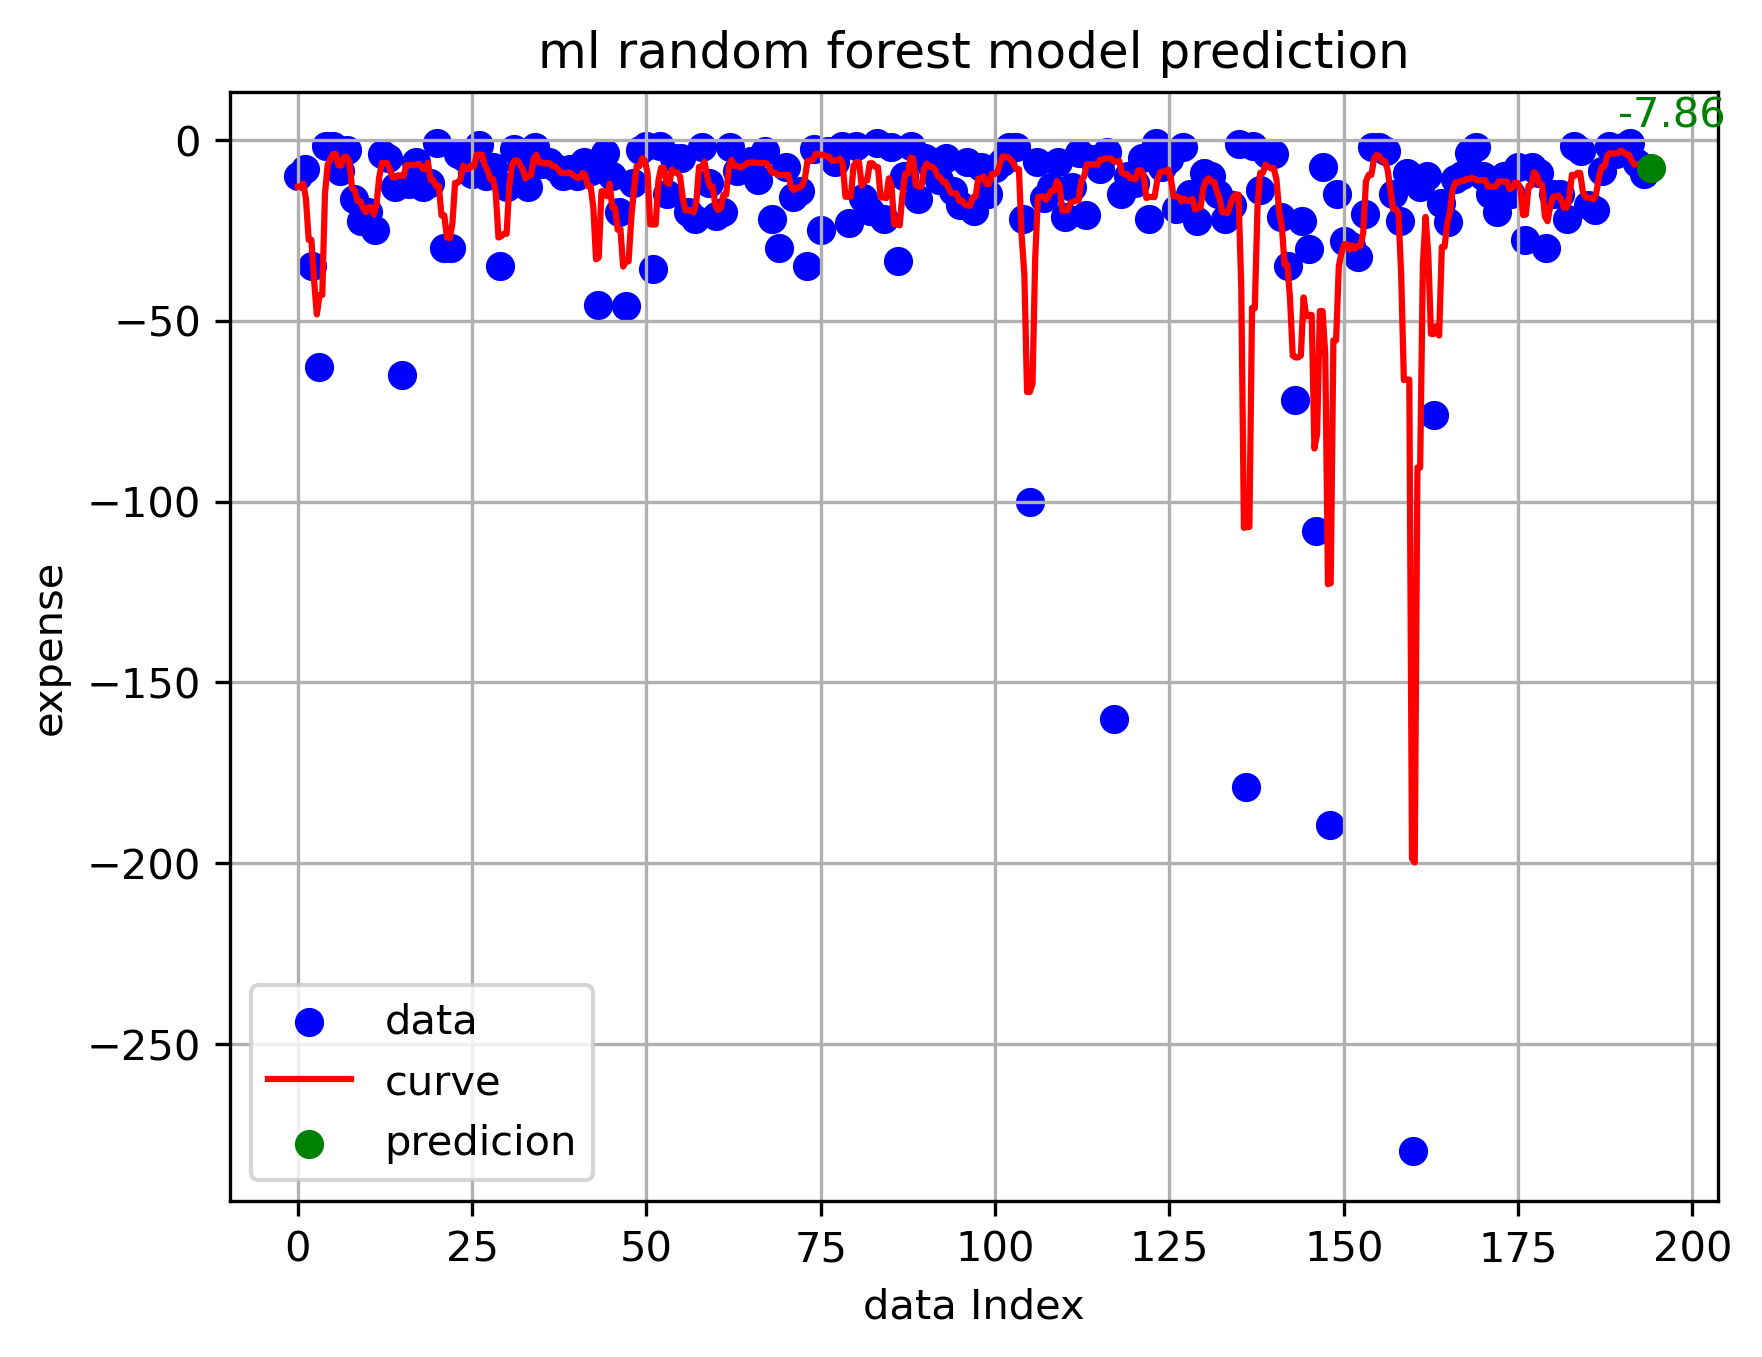
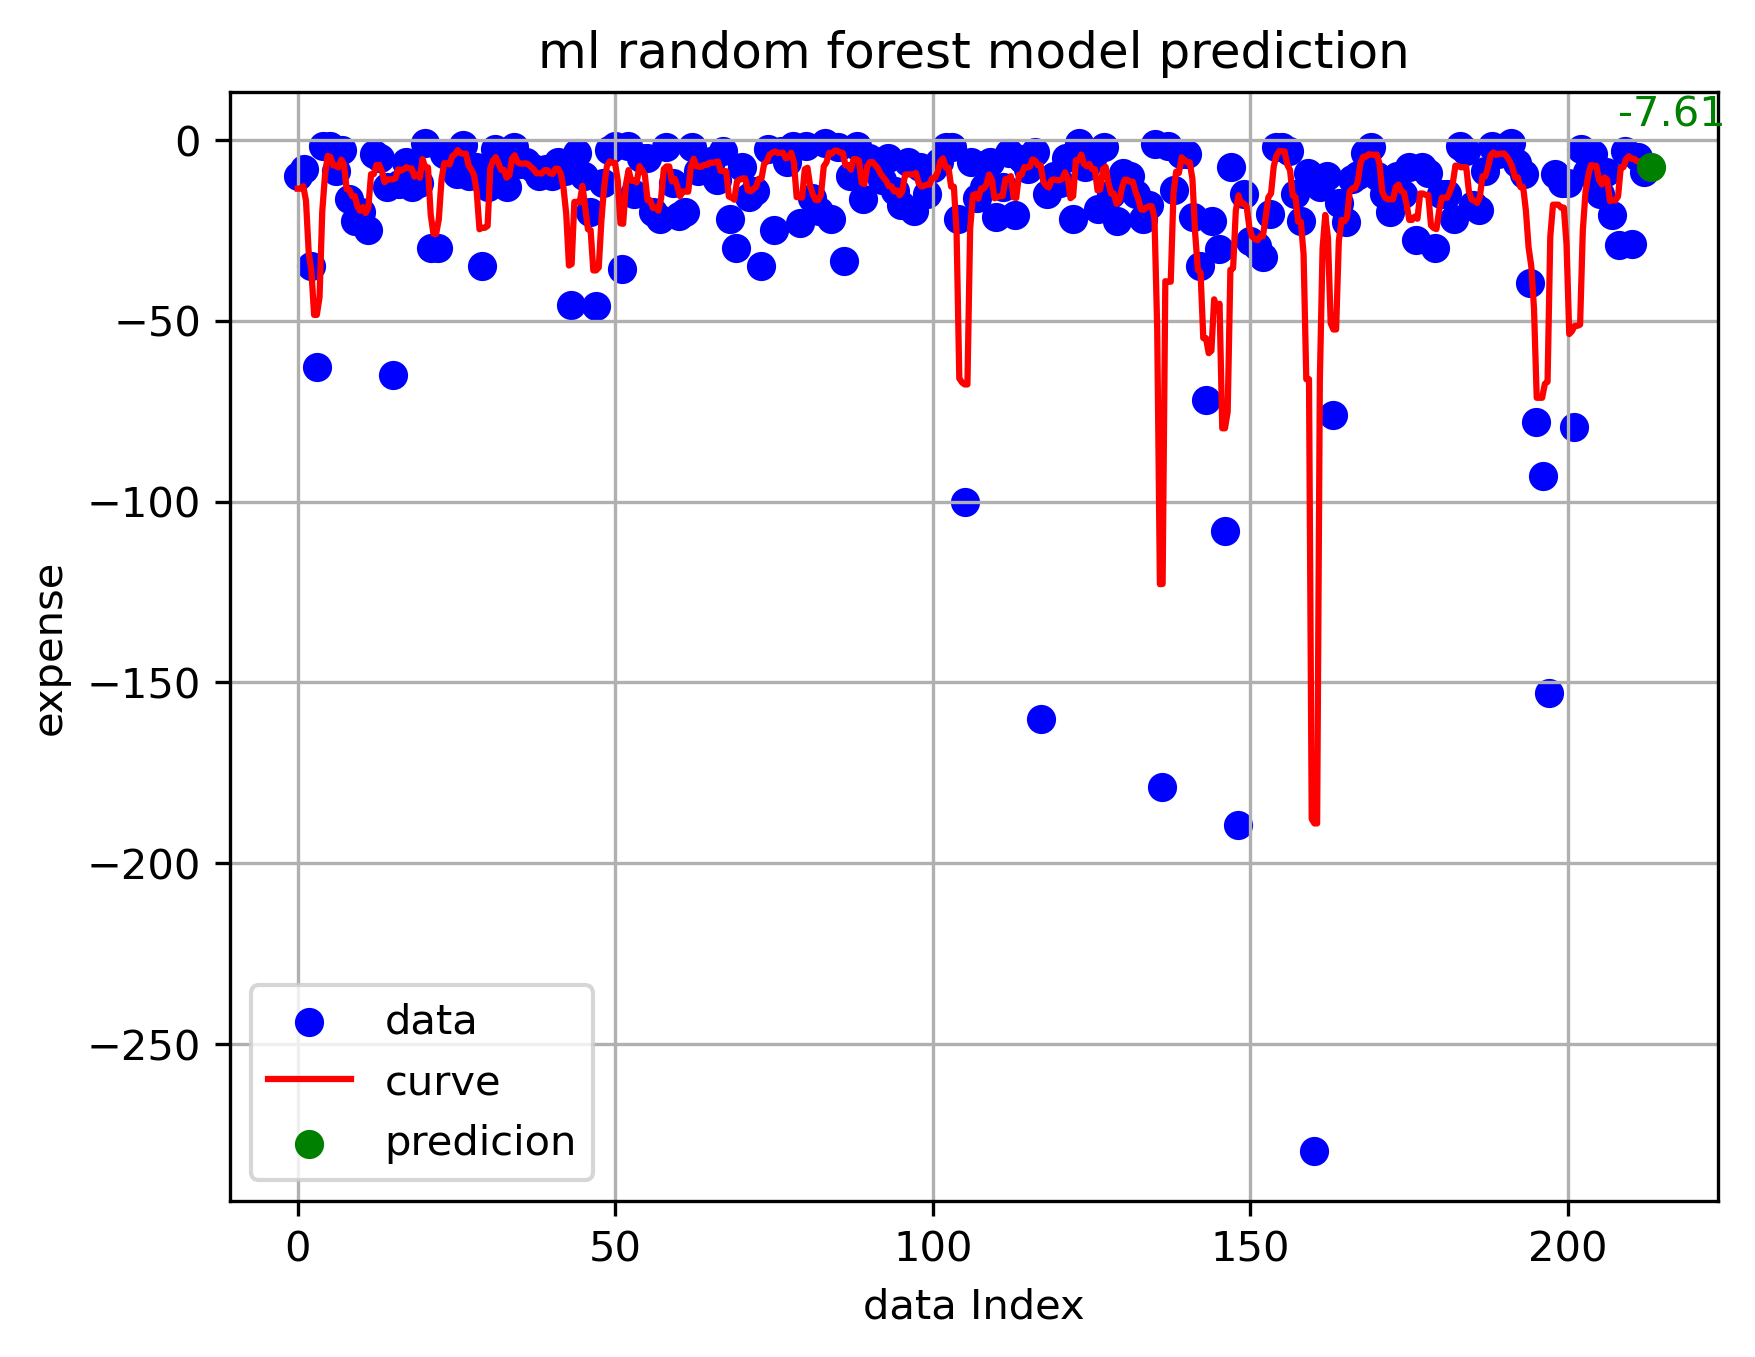
data update 12.15

diff --git a/Avg&Var/Avg&Var.py b/Avg&Var/Avg&Var.py
@@ -1,8 +1,12 @@
 import collections
+from turtledemo.penrose import start
+
+import numpy as np
 import pandas as pd
 import pymysql
 import statistics
 from matplotlib import pyplot as plt
+from matplotlib.pyplot import ylabel, yticks
 
 # 连接到 MySQL 数据库
 connection = pymysql.connect(
@@ -56,6 +60,7 @@ try:
         plt.plot(dates, amounts, marker='o', linestyle='-', color='b', label="trend")
         plt.xlabel("date")
         plt.ylabel("Expense")
+        # yticks = np.array(start = -500, stop = 0, step = 50)
         plt.title("variation")
         plt.legend()
         plt.xticks(rotation=45)

diff --git a/ExpenseAnalysis/model_predictions.md b/ExpenseAnalysis/model_predictions.md
@@ -4,12 +4,12 @@
 ## 预测值列表
 | 序号 | 预测值 |
 | -------- | ----------------------- |
-| 1    | -5.66117              |
-| 2    | -27.37988              |
-| 3    | -7.86090              |
-| 4    | -9.70802              |
+| 1    | -15.74139              |
+| 2    | -24.90774              |
+| 3    | -7.61260              |
+| 4    | -9.04430              |
     
 ## 统计分析
-- **均值**: -12.65
-- **总体方差**: 74.35
-- **样本方差**: 99.13
+- **均值**: -14.33
+- **总体方差**: 46.74
+- **样本方差**: 62.31

diff --git a/Avg&Var/result.md b/Avg&Var/result.md
@@ -2,8 +2,8 @@
 
 ## 金额（可执行）数据分析
 
-- 平均值: -74.6447619047619
-- 方差: 5774.422698722416
+- 平均值: -83.25
+- 方差: 7415.190390909092
 
 ## 日期出现次数统计
 
@@ -46,3 +46,6 @@
 | 2024-12-08 |          2 |
 | 2024-12-09 |          2 |
 | 2024-12-10 |          4 |
+| 2024-12-12 |          4 |
+| 2024-12-13 |          1 |
+| 2024-12-14 |          4 |
